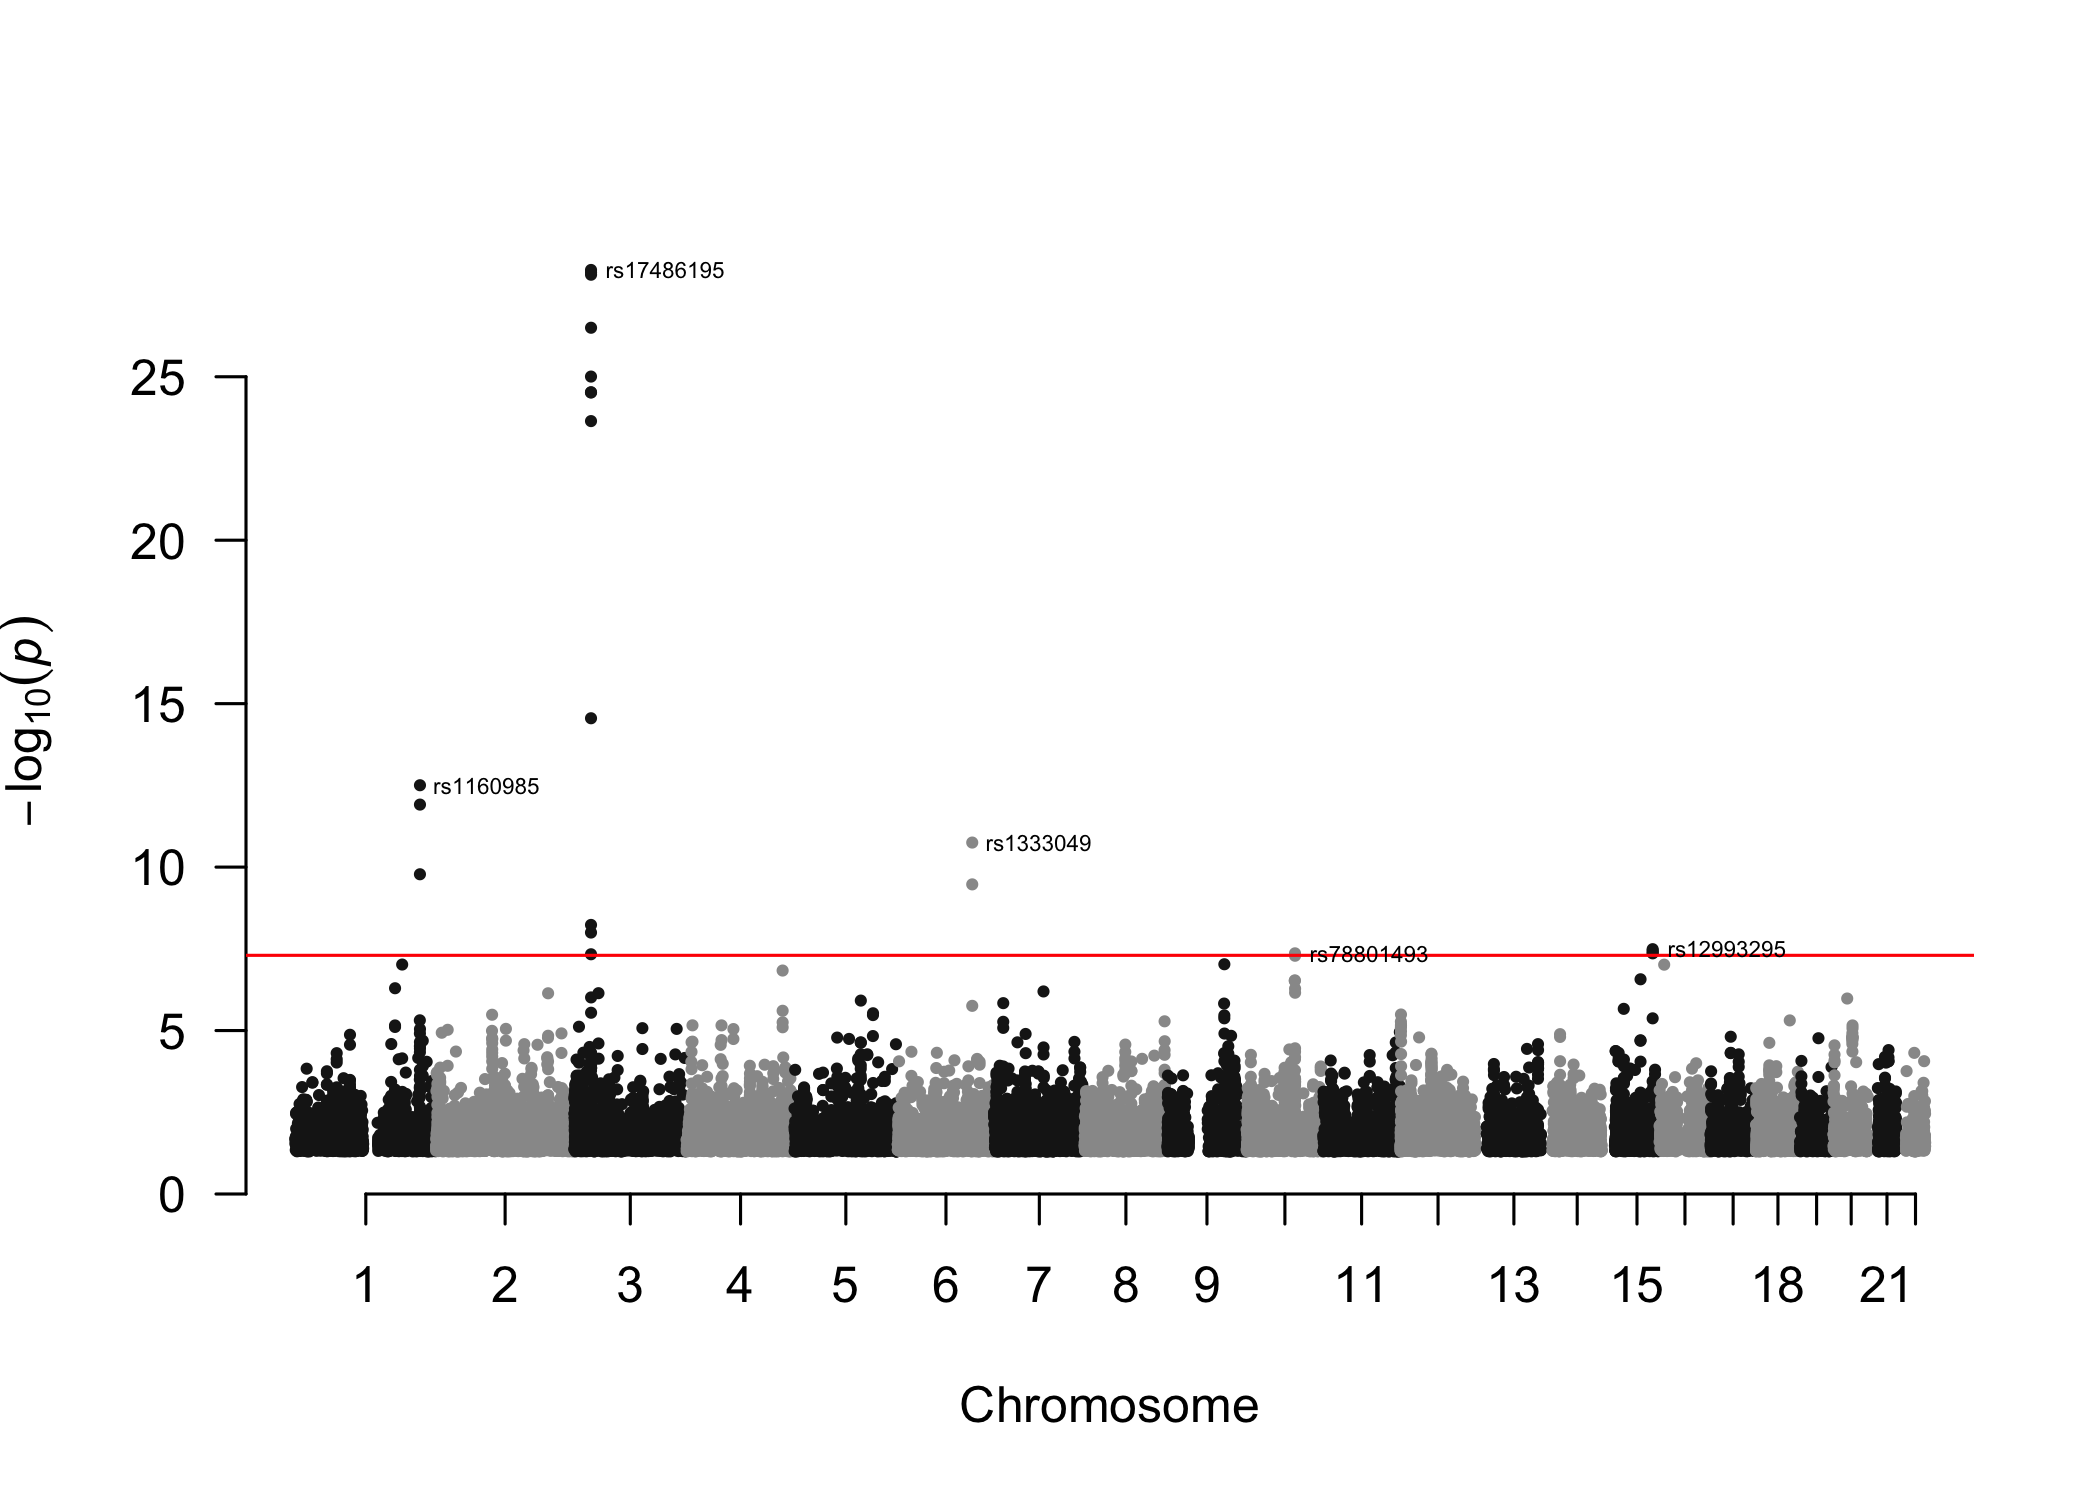
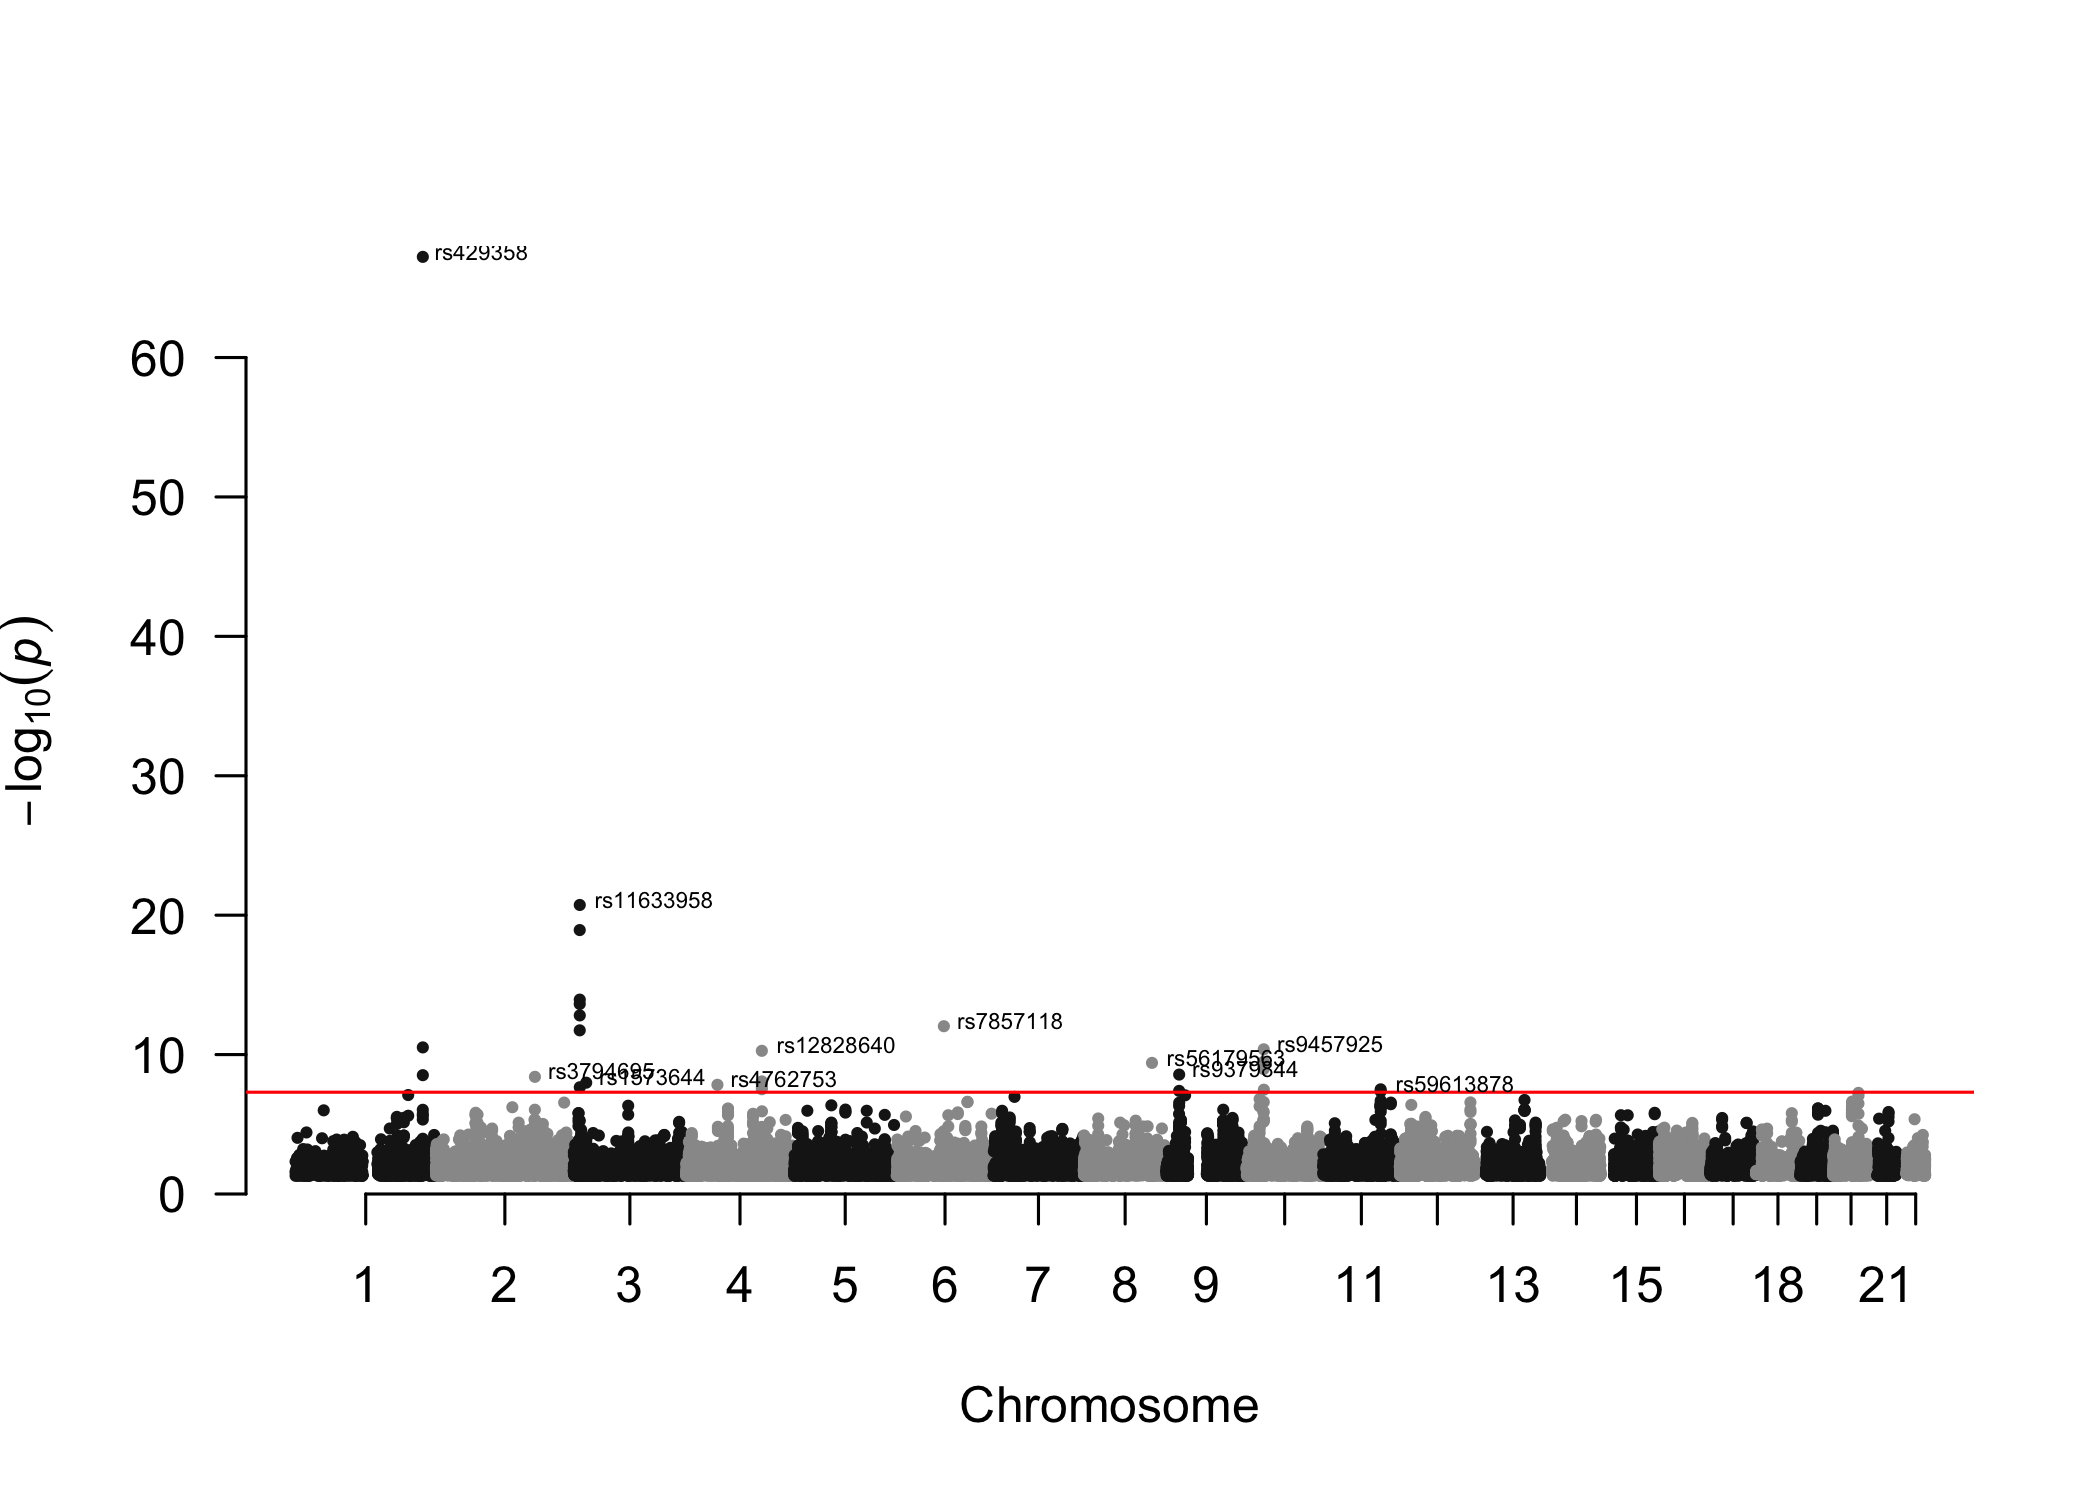
update example after fixing data and ZMat

diff --git a/README.md b/README.md
@@ -308,20 +308,23 @@ print(A)
     ## -_-_-_-_-_-_-_-_-_-_-_-_-_-_-_ 
     ##  
     ##   Analysis : "Test_UsingSmallDataFrame" 
-    ## bGWAS performed on 291,583 SNPs 
+    ## bGWAS performed on 286,807 SNPs 
     ##  
     ## -_-_-_-_-_-_-_-_-_-_-_-_-_-_-_ 
     ##  
-    ## 1 study used to build the prior : 
-    ## # A tibble: 1 x 3
+    ## 4 studies used to build the prior : 
+    ## # A tibble: 4 x 3
     ##   study                                             estimate std_error
     ##   <chr>                                                <dbl>     <dbl>
-    ## 1 All_ancestries_SNP_gwas_mc_merge_nogc.tbl.uniq.gz  -0.0643    0.0320
+    ## 1 EDUyears_2016_sumstat.txt                            0.187    0.0255
+    ## 2 All_ancestries_SNP_gwas_mc_merge_nogc.tbl.uniq.gz   -0.122    0.0248
+    ## 3 cardiogram_gwas_results.txt                         -0.439    0.0623
+    ## 4 DBP                                                 -0.248    0.0623
     ## 
     ## -_-_-_-_-_-_-_-_-_-_-_-_-_-_-_ 
     ##  
-    ## 5 significant SNPs identified : 
-    ##  rs17486195, rs1160985, rs1333049, rs12993295, rs78801493
+    ## 11 significant SNPs identified : 
+    ##  rs429358, rs11633958, rs7857118, rs9457925, rs12828640, rs56179563, rs9379844, rs3794695, rs1573644, rs4762753, rs59613878
     ## 
     ## -_-_-_-_-_-_-_-_-_-_-_-_-_-_-_
 
@@ -338,7 +341,7 @@ print_log_bGWAS(A)
     ## The conventional GWAS used as input the object: "GWAS".  
     ##    SNPID column, ok - ALT column, ok - REF column, ok - BETA column, ok - SE column, ok
     ## Posterior effects will be rescaled using BETA and SE.
-    ## The analysis will be run in the folder: "/Users/nmounier/ZMatrices".  
+    ## The analysis will be run in the folder: "/Users/nmounier/Documents/SGG/Temp/Test_UsingSmallDataFrame".  
     ## The p-value threshold used for selecting MR instruments is: 1e-06.  
     ## The minimum number instruments required for each trait is: 3.  
     ## The distance used for pruning MR instruments is: 500Kb.  
@@ -361,13 +364,13 @@ print_log_bGWAS(A)
     ## 209,840 SNPs 
     ## # Adding data from the conventional GWAS :  "GWAS" 
     ## Done! 
-    ## 9,125 SNPs in common between prior studies and the conventional GWAS 
+    ## 8,813 SNPs in common between prior studies and the conventional GWAS 
     ## # Thresholding... 
-    ## 786 SNPs left after thresholding 
+    ## 767 SNPs left after thresholding 
     ## 6 studies left after thresholding 
     ## Pruning MR instruments... 
     ##    distance : 500Kb 
-    ## 162 SNPs left after pruning 
+    ## 159 SNPs left after pruning 
     ## 6 studies left after thresholding+pruning 
     ## 
     ## > Performing MR  
@@ -376,24 +379,42 @@ print_log_bGWAS(A)
     ## Conventionnal GWAS of interest : GWAS
     ## # Univariate regressions for each trait... 
     ##   Number of trait-specific instruments per univariate regression: 
-    ##   . Body Mass Index (GIANT) : 60 
+    ##   . Body Mass Index (GIANT) : 59 
     ##   . Coronary Artery Disease (CARDIoGRAM) : 6 
-    ##   . Years of Schooling (SSGAC) : 84 
-    ##   . Systolic Blood Pressure (ICBP) : 5 
+    ##   . Years of Schooling (SSGAC) : 83 
+    ##   . Systolic Blood Pressure (ICBP) : 8 
     ##   . Diastolic Blood Pressure (ICBP) : 8 
-    ##   . College Completion (SSGAC) : 5 
+    ##   . College Completion (SSGAC) : 4 
     ## Done! 
     ## # Stepwise selection (all traits)... 
-    ## Adding the first study :Body Mass Index (GIANT) 
+    ## Adding the first study :Years of Schooling (SSGAC) 
+    ## #Test if any study can be added with p<0.05 
+    ## Adding one study :Systolic Blood Pressure (ICBP) 
+    ## Done! 
+    ## #Test if any study has p>0.05 now 
+    ## #Test if any study can be added with p<0.05 
+    ## Adding one study :Body Mass Index (GIANT) 
+    ## Done! 
+    ## #Test if any study has p>0.05 now 
+    ## #Test if any study can be added with p<0.05 
+    ## Adding one study :Coronary Artery Disease (CARDIoGRAM) 
+    ## Done! 
+    ## #Test if any study has p>0.05 now 
+    ## #Test if any study can be added with p<0.05 
+    ## Adding one study :Diastolic Blood Pressure (ICBP) 
+    ## Done! 
+    ## #Test if any study has p>0.05 now 
+    ## Excluding one study :Systolic Blood Pressure (ICBP) 
+    ## Done! 
     ## #Test if any study can be added with p<0.05 
     ## #Test if any study has p>0.05 now 
     ## It converged! 
     ## # Final regression... 
     ## The studies used are: 
-    ## - Body Mass Index (GIANT)
+    ## - Years of Schooling (SSGAC)- Body Mass Index (GIANT)- Coronary Artery Disease (CARDIoGRAM)- Diastolic Blood Pressure (ICBP)
     ## 
     ## Estimating adjusted R-squared: 
-    ## - in-sample adjusted R-squared for the all-chromosomes multivariate regression is 0.0482 
+    ## - in-sample adjusted R-squared for the all-chromosomes multivariate regression is 0.5534 
     ## - out-of-sample R-squared (masking one chromosome at a time), for the multivariate regression will be estimated when calculating the prior. 
     ## 
     ## 
@@ -403,11 +424,11 @@ print_log_bGWAS(A)
     ## > Creating the full Z-Matrix  
     ## # Loading the ZMatrix... 
     ## Selecting studies :
-    ## 1 studies 
+    ## 4 studies 
     ## 6,811,310 SNPs 
     ## # Adding data from the conventional GWAS :  "GWAS" 
     ## Done! 
-    ## 291,583 SNPs in common between prior studies and the conventional GWAS 
+    ## 286,807 SNPs in common between prior studies and the conventional GWAS 
     ## 
     ## > Computing prior  
     ## # Calculating the prior chromosome by chromosome... 
@@ -499,10 +520,10 @@ print_log_bGWAS(A)
     ## Running regression, 
     ## Calculating prior estimates for SNPs on this chromosome, 
     ## Calculating prior standard errors for SNPs on this chromosome, 
-    ## ## Out-of-sample R-squared for MR instruments across all chromosomes is 0.0161
-    ## ## Out-of-sample squared correlation for MR instruments across all chromosome is 0.0489
-    ## ## Correlation between prior and observed effects for all SNPs is 0.001
-    ## ## Correlation between prior and observed effects for SNPs with GWAS p-value < 0.001 is 0.0319
+    ## ## Out-of-sample R-squared for MR instruments across all chromosomes is 0.5206
+    ## ## Out-of-sample squared correlation for MR instruments across all chromosome is 0.5271
+    ## ## Correlation between prior and observed effects for all SNPs is 0.1855
+    ## ## Correlation between prior and observed effects for SNPs with GWAS p-value < 0.001 is 0.5944
     ## Done! 
     ## 
     ## 
@@ -519,18 +540,18 @@ print_log_bGWAS(A)
     ##     everything is ok!  
     ## Done! 
     ## > Pruning and identifying significant SNPs 
-    ##    Starting with 291,583 SNPs 
+    ##    Starting with 286,807 SNPs 
     ## # Selecting significant SNPs according to p-values... 
-    ## 22 SNPs left 
+    ## 31 SNPs left 
     ## Done! 
     ## # Pruning significant SNPs... 
     ##    distance : 500Kb 
-    ## 5 SNPs left 
+    ## 11 SNPs left 
     ## Done! 
     ## 
     ## 
     ## <><><><><><><><><><><><><><><><><><><><><><><><><><><><><><><><><><><><><><><><><><><><>
-    ## Time of the analysis: 2 minute(s) and 2 second(s).
+    ## Time of the analysis: 1 minute(s) and 57 second(s).
 
 Functions to extract results from an object of class *bGWAS*:
 
@@ -539,21 +560,33 @@ hits = extract_results_bGWAS(A, "significant")
 hits
 ```
 
-    ## # A tibble: 5 x 22
-    ##   chrm_UK10K pos_UK10K rsid  alt   ref      beta      se z_obs
-    ##        <dbl>     <dbl> <chr> <chr> <chr>   <dbl>   <dbl> <dbl>
-    ## 1          3  29790763 rs17… A     G     2.65e-4 2.40e-5 11.1 
-    ## 2          1 220209813 rs11… T     C     7.79e-5 1.11e-5  7.04
-    ## 3          6 132242660 rs13… C     G     1.04e-4 1.53e-5  6.77
-    ## 4         15  89497100 rs12… T     G     4.34e-5 8.81e-6  4.92
-    ## 5         10  85631344 rs78… T     C     6.16e-5 1.13e-5  5.46
-    ##   mu_prior_estima… mu_prior_std_er… mu_posterior_es… mu_posterior_st…
-    ##              <dbl>            <dbl>            <dbl>            <dbl>
-    ## 1           0.182              1.01             5.66            0.710
-    ## 2           0.247              1.01             3.68            0.711
-    ## 3          -0.0291             1.00             3.38            0.708
-    ## 4           0.538              1.09             2.93            0.738
-    ## 5           0.0335             1.00             2.75            0.708
+    ## # A tibble: 11 x 22
+    ##    chrm_UK10K pos_UK10K rsid  alt   ref      beta      se  z_obs
+    ##         <dbl>     <dbl> <chr> <chr> <chr>   <dbl>   <dbl>  <dbl>
+    ##  1          1 225492545 rs42… T     C      0.106  0.00546  19.3 
+    ##  2          3  10540516 rs11… T     C     -0.0418 0.00410 -10.2 
+    ##  3          6  83562639 rs78… A     T      0.0240 0.00387   6.20
+    ##  4         10  30900081 rs94… A     G     -0.0875 0.0145   -6.03
+    ##  5          4 133885985 rs12… A     G     -0.0229 0.00399  -5.74
+    ##  6          8 120703781 rs56… A     G      0.0211 0.00406   5.19
+    ##  7          9  22362841 rs93… A     G      0.0219 0.00399   5.50
+    ##  8          2 174530122 rs37… T     C     -0.0260 0.00491  -5.30
+    ##  9          3  21881162 rs15… T     C      0.0201 0.00412   4.88
+    ## 10          4  55593481 rs47… T     G      0.0259 0.00487   5.31
+    ## 11         11 101608267 rs59… T     C      0.0206 0.00420   4.90
+    ##    mu_prior_estima… mu_prior_std_er… mu_posterior_es… mu_posterior_st…
+    ##               <dbl>            <dbl>            <dbl>            <dbl>
+    ##  1           -0.351             1.16            10.9             0.757
+    ##  2           -0.190             1.16            -5.94            0.758
+    ##  3            2.61              1.32             4.89            0.797
+    ##  4           -1.72              1.17            -4.21            0.760
+    ##  5           -2.34              1.20            -4.34            0.767
+    ##  6            3.37              1.23             4.47            0.776
+    ##  7            1.43              1.14             3.72            0.751
+    ##  8           -1.69              1.16            -3.76            0.757
+    ##  9            2.43              1.21             3.88            0.770
+    ## 10            1.16              1.16             3.54            0.757
+    ## 11            1.78              1.16             3.57            0.757
     ## # … with 10 more variables: mu_direct_estimate <dbl>,
     ## #   mu_direct_std_error <dbl>, beta_prior_estimate <dbl>,
     ## #   beta_prior_std_error <dbl>, beta_posterior_estimate <dbl>,
@@ -565,19 +598,25 @@ all_results = extract_results_bGWAS(A, "all")
 nrow(all_results)
 ```
 
-    ## [1] 291583
+    ## [1] 286807
 
 ``` r
 extract_MRcoeffs_bGWAS(A)[,1:12]
 ```
 
-    ## # A tibble: 1 x 12
-    ##   name       study           estimate std_error Tstat      P chrm1_estimate
-    ##   <chr>      <chr>              <dbl>     <dbl> <dbl>  <dbl>          <dbl>
-    ## 1 Body Mass… All_ancestries…  -0.0643    0.0320 -2.01 0.0490        -0.0782
-    ##   chrm1_std_error chrm1_P chrm2_estimate chrm2_std_error chrm2_P
-    ##             <dbl>   <dbl>          <dbl>           <dbl>   <dbl>
-    ## 1          0.0323  0.0192        -0.0380          0.0312   0.229
+    ## # A tibble: 4 x 12
+    ##   name        study        estimate std_error Tstat        P chrm1_estimate
+    ##   <chr>       <chr>           <dbl>     <dbl> <dbl>    <dbl>          <dbl>
+    ## 1 Years of S… EDUyears_20…    0.187    0.0255  7.33 1.32e-11          0.187
+    ## 2 Body Mass … All_ancestr…   -0.122    0.0248 -4.93 2.12e- 6         -0.108
+    ## 3 Coronary A… cardiogram_…   -0.439    0.0623 -7.05 6.18e-11         -0.469
+    ## 4 Diastolic … DBP            -0.248    0.0623 -3.98 1.07e- 4         -0.264
+    ##   chrm1_std_error  chrm1_P chrm2_estimate chrm2_std_error  chrm2_P
+    ##             <dbl>    <dbl>          <dbl>           <dbl>    <dbl>
+    ## 1          0.0258 2.93e-11          0.186          0.0273 3.01e-10
+    ## 2          0.0259 5.55e- 5         -0.124          0.0268 8.72e- 6
+    ## 3          0.0616 4.27e-12         -0.439          0.0685 2.24e- 9
+    ## 4          0.0619 3.78e- 5         -0.250          0.0653 1.93e- 4
 
 Functions for graphic representations:
 
@@ -615,7 +654,7 @@ A detailed description of these files can be found
 
 Analysis using all the 38 prior GWASs available, for a conventional GWAS
 containing \~7M SNPs in common with the prior studies \~ 25 minutes (see
-complete Lifespan Analysis [here]()).
+complete Lifespan Analysis [here](doc/Lifespan_Analysis.md)).
 
 Analysis using 6 prior GWASs, for a conventional GWAS containing \~
 300,000 SNPs in common with prior studies (see example A) \~ 2 minutes.
